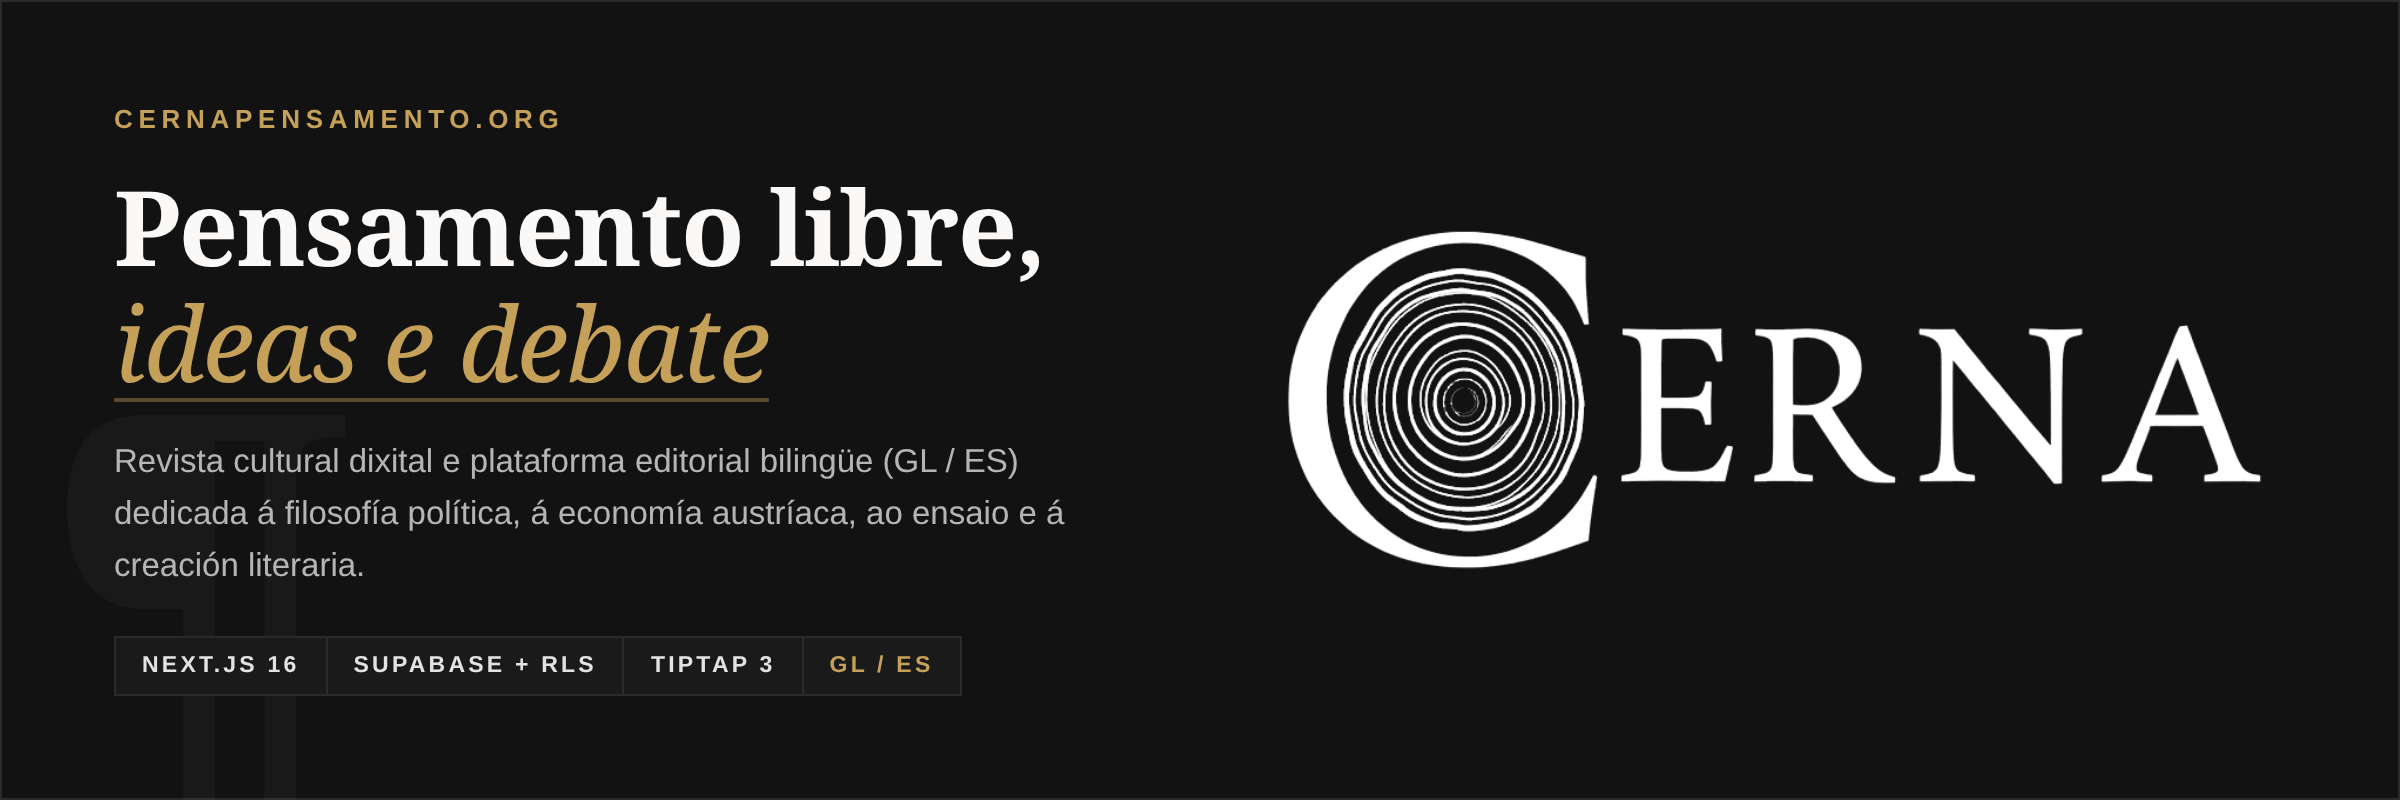
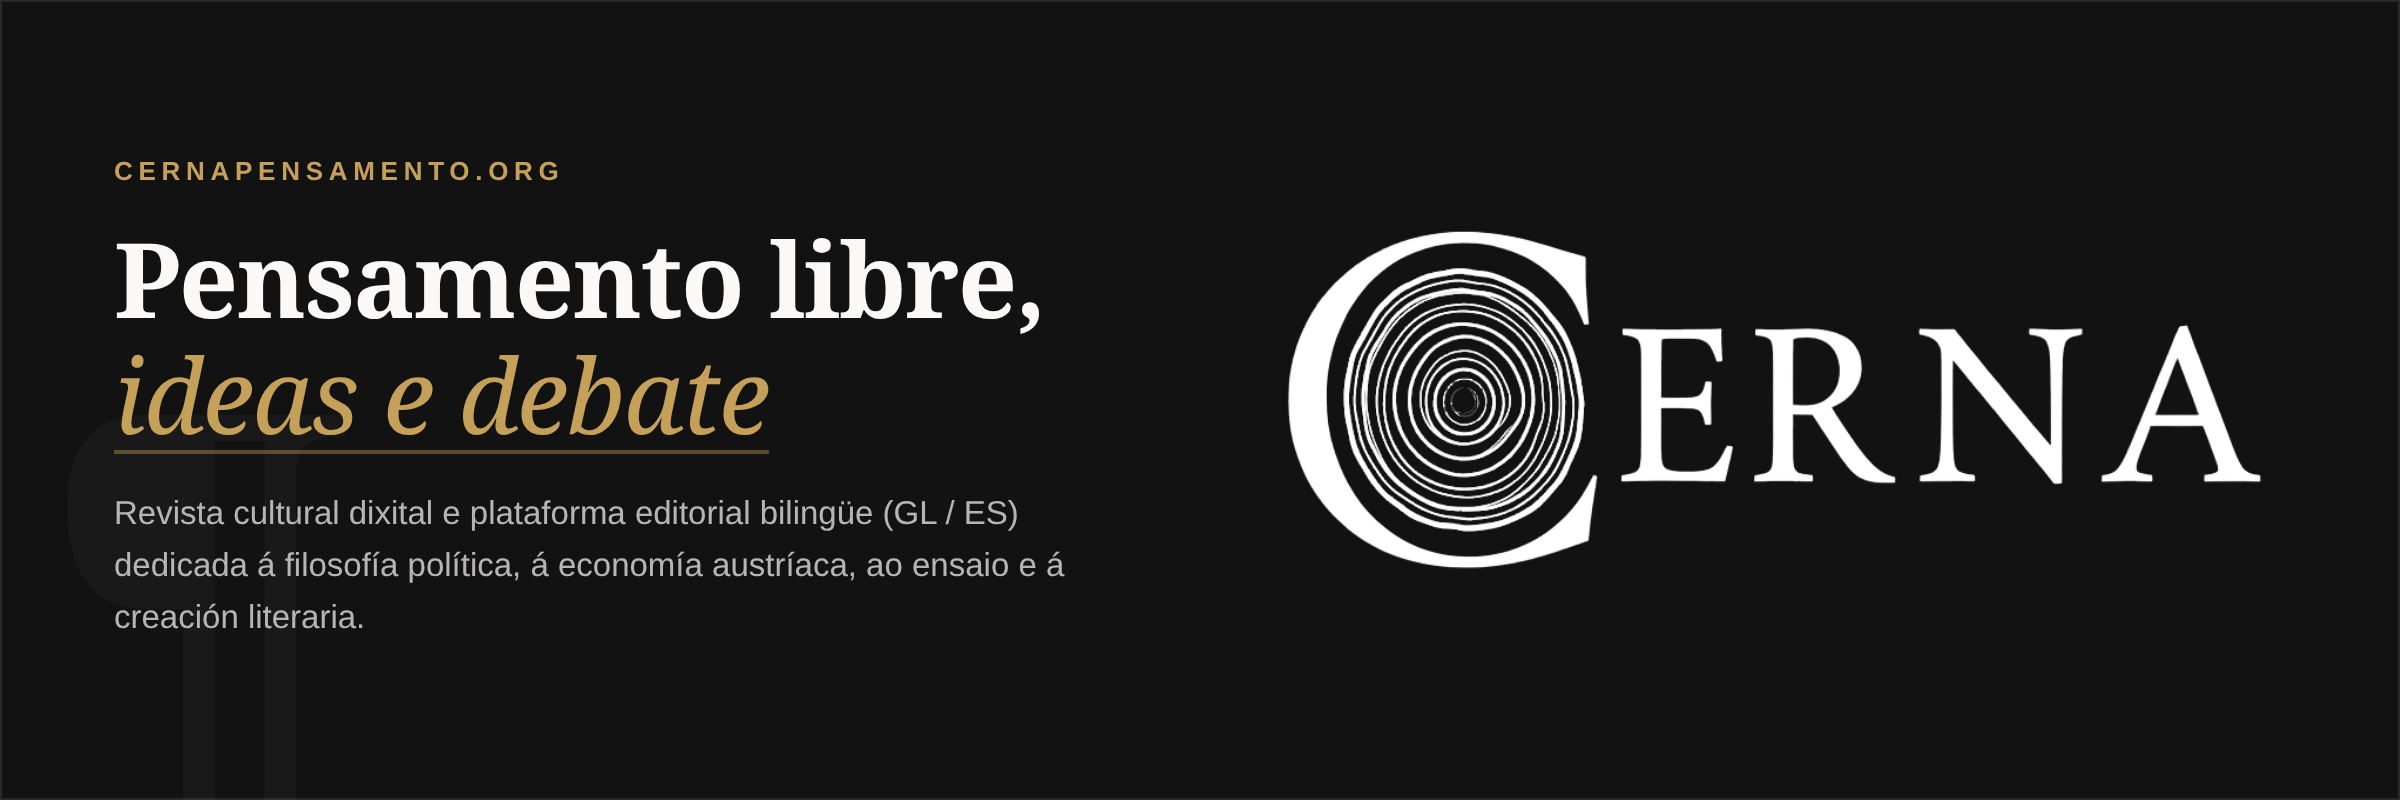
docs(readme): remove tech stack pills from hero image

diff --git a/assets/readme/source/hero-layout.html b/assets/readme/source/hero-layout.html
@@ -72,27 +72,6 @@
     color: rgba(228, 226, 226, 0.78);
     max-width: 490px;
   }
-  .meta-strip {
-    margin-top: 4px;
-    display: inline-flex;
-    align-items: center;
-    border: 1px solid #2a2a2a;
-    background: #1a1a1a;
-    align-self: flex-start;
-  }
-  .meta-item {
-    padding: 8px 13px;
-    font-size: 11.5px;
-    font-weight: 600;
-    letter-spacing: 0.14em;
-    text-transform: uppercase;
-    color: #e4e2e2;
-    border-right: 1px solid #2a2a2a;
-  }
-  .meta-item:last-child {
-    border-right: none;
-    color: #c5a059;
-  }
   .right {
     position: relative;
     z-index: 2;
@@ -119,12 +98,6 @@
       <p class="desc">
         Revista cultural dixital e plataforma editorial bilingüe (GL / ES) dedicada á filosofía política, á economía austríaca, ao ensaio e á creación literaria.
       </p>
-      <div class="meta-strip">
-        <span class="meta-item">Next.js 16</span>
-        <span class="meta-item">Supabase + RLS</span>
-        <span class="meta-item">TipTap 3</span>
-        <span class="meta-item">GL / ES</span>
-      </div>
     </div>
     <div class="right">
       <img src="../../../public/images/hero/cerna-presentation-dark-last-frame.webp" alt="Cerna Logo" />
